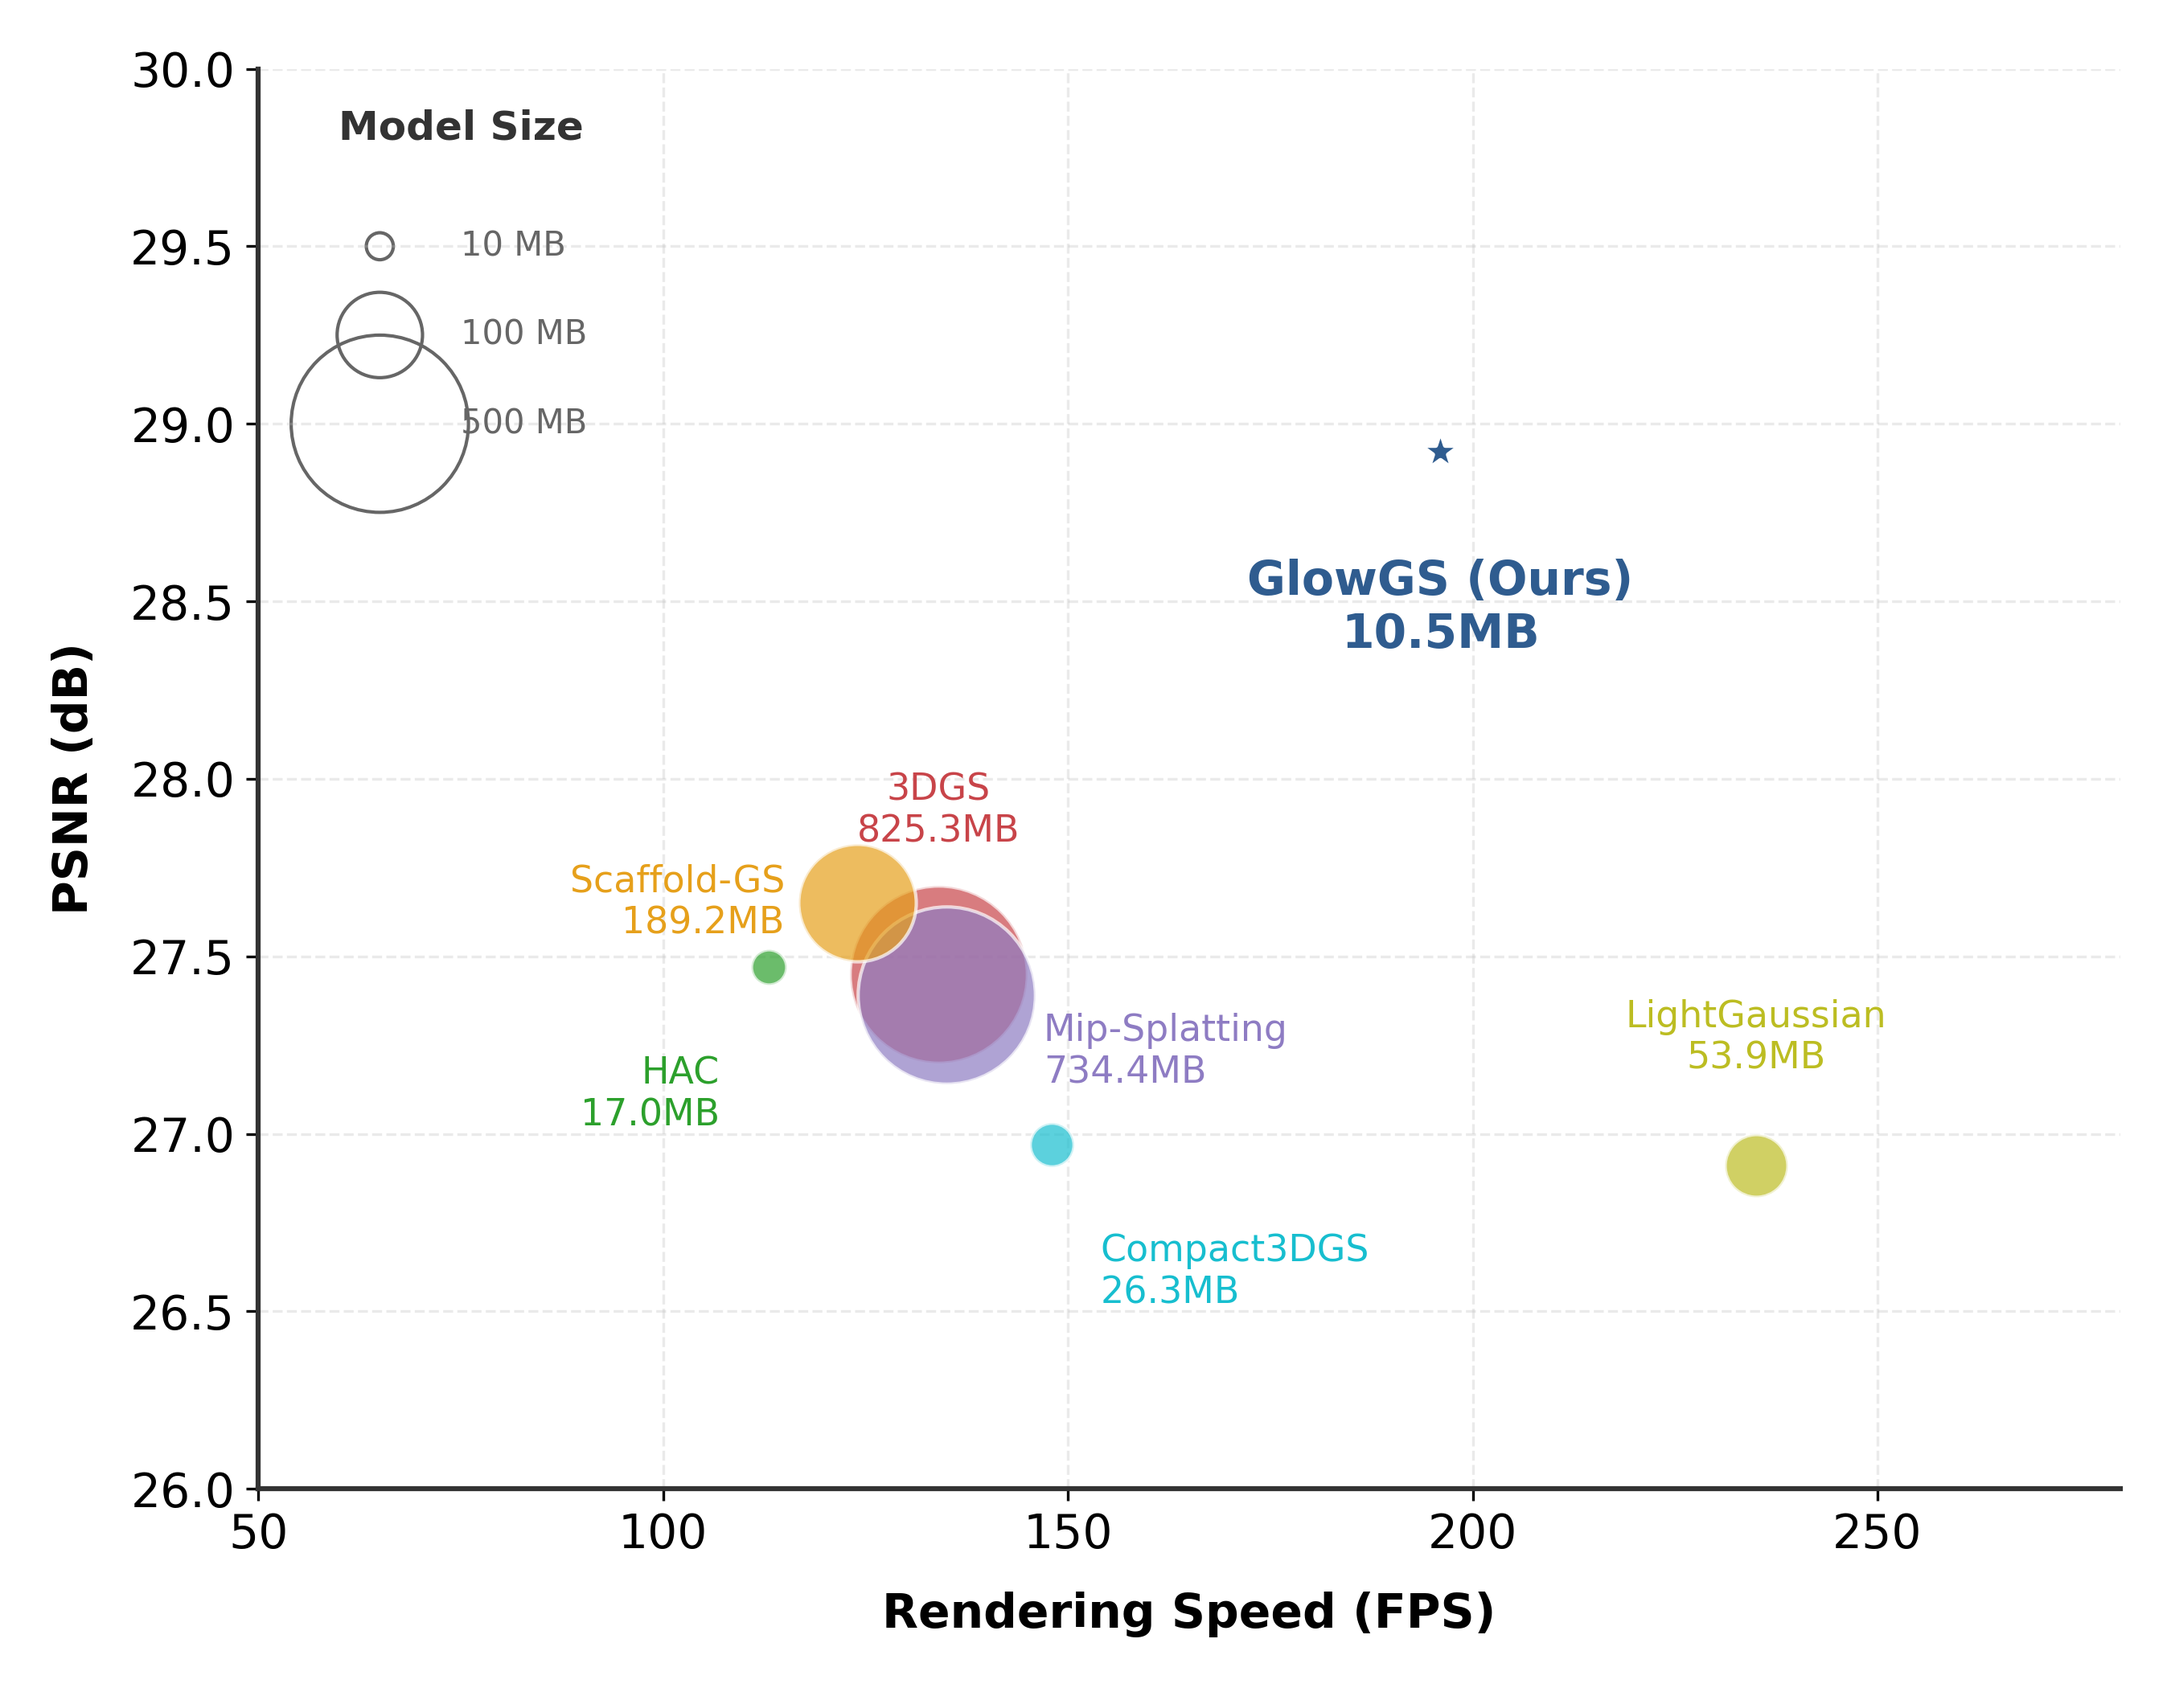
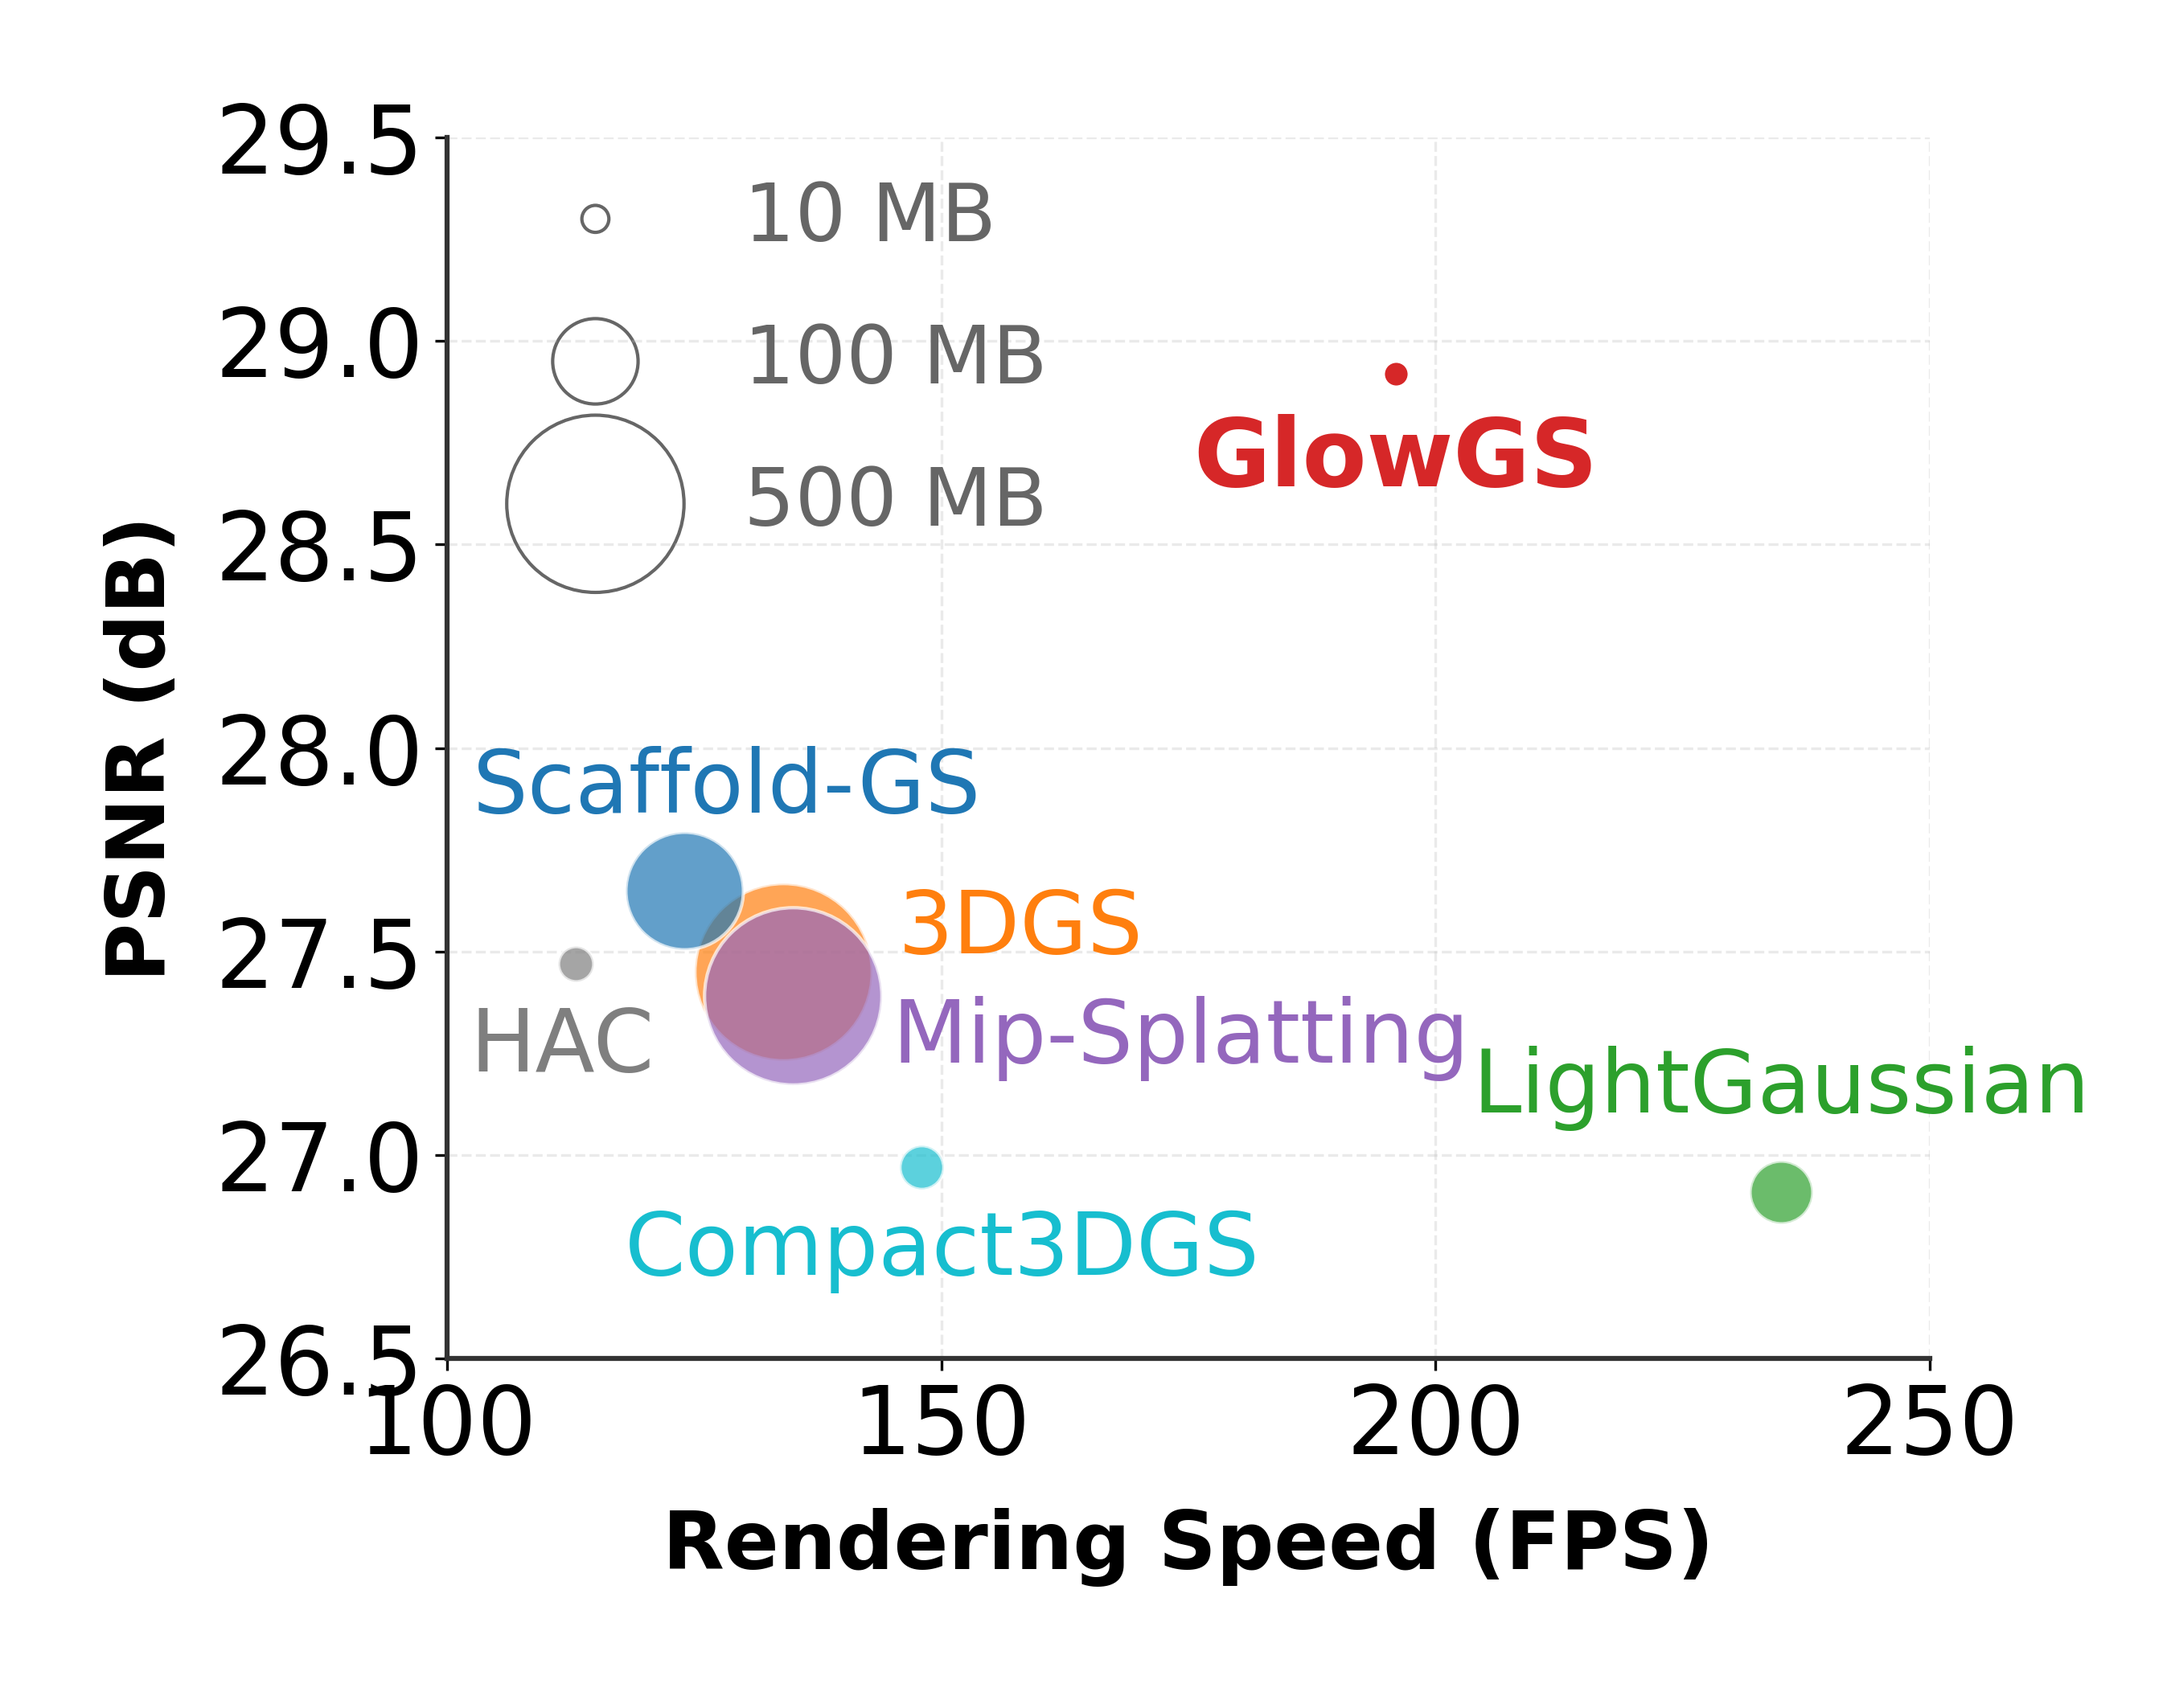
✨ feat: Update the bubble chart configuration, adjusting colors and label positions to enhance readability

diff --git a/paper_experiments/04_trade-off/plot_bubbles.py b/paper_experiments/04_trade-off/plot_bubbles.py
@@ -8,26 +8,26 @@ CONFIG = {
     "figsize": (9, 7),
     "save_path": "paper_experiments/04_trade-off/tradeoff.pdf",
     "dpi": 300,
-    "bubble_scale": 6.5,   # 略微增大全局气泡
-    "bubble_min": 60,      # 提高最小值，防止小气泡太难看
+    "bubble_scale": 6.5,
+    "bubble_min": 60,
     "bubble_max": 2800,
 }
 
 # 顶刊配色 (保持不变)
 COLORS = {
-    "GlowGS":   "#2F5C8F", # Deep Blue
-    "3DGS":     "#C84449", # Red
-    "Scaffold": "#E6A01B", # Golden
-    "Mip":      "#8E7CC3", # Purple
-    "Compact":  "#17BECF", # Cyan
-    "Light":    "#BCBD22", # Olive
-    "HAC":      "#2CA02C", # Green
+    "GlowGS":   "#D62728",
+    "3DGS":     "#FF7F0E",
+    "Scaffold": "#1F77B4",
+    "Mip":      "#9467BD",
+    "Compact":  "#17BECF",
+    "Light":    "#2CA02C",
+    "HAC":      "#7F7F7F", 
 }
 
 plt.rcParams.update({
     "font.family": "sans-serif",
     "font.sans-serif": ["Arial", "Helvetica", "DejaVu Sans"],
-    "font.size": 14,
+    "font.size": 28,
     "axes.linewidth": 1.5,
     "axes.edgecolor": "#333333",
     "pdf.fonttype": 42,
@@ -51,22 +51,21 @@ DATA = [
     [235, 26.91, 53.9,  COLORS["Light"],    "LightGaussian"],
     
     # Ours
-    [196, 28.92, 10.5,  COLORS["GlowGS"],   "GlowGS (Ours)"],
+    [196, 28.92, 10.5,  COLORS["GlowGS"],   "GlowGS"],
 ]
 
 # =====================
 # 3. 标签微调 (距离拉近版)
 # =====================
-# 格式: Name: (x_offset, y_offset, ha, va)
-# 这里的 offset 是数据坐标偏移，我把数值调小了，让字靠近气泡
+
 LABEL_POS = {
-    "3DGS":           (0, 0.35, 'center', 'bottom'), # 之前是 0.45
-    "Scaffold-GS":    (-9, 0.0, 'right', 'center'),  # 之前是 -12
-    "Mip-Splatting":  (12, -0.05, 'left', 'top'),    # 之前是 15
-    "Compact3DGS":    (6, -0.25, 'left', 'top'),     # 之前是 8
-    "HAC":            (-6, -0.25, 'right', 'top'),   # 之前是 -8
-    "LightGaussian":  (0, 0.25, 'center', 'bottom'), # 之前是 0.35
-    "GlowGS (Ours)":  (0, -0.3, 'center', 'top'),    # 之前是 -0.4
+    "3DGS":           (24, 0, 'center', 'bottom'),
+    "Scaffold-GS":    (30, 0.25, 'right', 'center'),
+    "Mip-Splatting":  (10, 0, 'left', 'top'),
+    "Compact3DGS":    (-30, -0.1, 'left', 'top'),
+    "HAC":            (8, -0.1, 'right', 'top'),
+    "LightGaussian":  (0, 0.15, 'center', 'bottom'),
+    "GlowGS":  (0, -0.1, 'center', 'top'),
 }
 
 def size_to_area(size_mb):
@@ -79,19 +78,16 @@ def main():
     DATA.sort(key=lambda x: x[2], reverse=True)
 
     for fps, psnr, size, color, name in DATA:
-        is_ours = "Ours" in name
+        is_ours = "GlowGS" in name
         
         # 样式逻辑
-        marker = '*' if is_ours else 'o'
+        marker = 'o'
         alpha = 1.0 if is_ours else 0.7  # 其他半透明
         edge_color = 'white'
         lw = 1.5 if is_ours else 1.0
         zorder = 100 if is_ours else 50
         
-        # === 关键修改：大幅增加星星的显示面积 ===
         area = size_to_area(size)
-        if is_ours: 
-            area *= 2.5 # 之前是1.5，现在改成2.5，保证星星够大
 
         ax.scatter(fps, psnr, s=area, c=color, marker=marker, 
                    edgecolors=edge_color, linewidth=lw, alpha=alpha, zorder=zorder)
@@ -101,40 +97,40 @@ def main():
         
         # 字体加粗 & 颜色匹配
         weight = 'bold' if is_ours else 'medium'
-        fontsize = 14 if is_ours else 11
+        fontsize = 28 if is_ours else 26
         
         # === 关键修改：文字颜色直接使用气泡颜色 ===
         text_color = color 
         
-        ax.text(fps + dx, psnr + dy, f"{name}\n{size:.1f}MB", 
+        ax.text(fps + dx, psnr + dy, f"{name}", 
                 fontsize=fontsize, fontweight=weight, color=text_color,
                 ha=ha, va=va, zorder=200)
 
     # --- 装饰 ---
-    ax.set_xlabel("Rendering Speed (FPS)", fontweight='bold', fontsize=14, labelpad=10)
-    ax.set_ylabel("PSNR (dB)", fontweight='bold', fontsize=14, labelpad=10)
+    ax.set_xlabel("Rendering Speed (FPS)", fontweight='bold', fontsize=24, labelpad=10)
+    ax.set_ylabel("PSNR (dB)", fontweight='bold', fontsize=24, labelpad=10)
     
-    ax.set_xlim(50, 280)
-    ax.set_ylim(26.0, 30.0)
+    ax.set_xlim(100, 250)
+    ax.set_ylim(26.5, 29.5)
     
     ax.grid(True, which='major', linestyle='--', alpha=0.3, color='#bbbbbb', zorder=0)
     ax.spines['top'].set_visible(False)
     ax.spines['right'].set_visible(False)
 
     # --- 图例 (右移版) ---
-    # legend_x 从 70 改为 75
-    legend_x, legend_y = 75, 29.5 
+    legend_x, legend_y = 130, 29.3 
     
-    ax.text(legend_x, legend_y + 0.3, "Model Size", fontweight='bold', fontsize=12, ha='center', color='#333333')
+    # ax.text(legend_x, legend_y + 0.3, "Model Size", fontweight='bold', fontsize=24, ha='center', color='#333333')
     
     sizes_demo = [10, 100, 500]
+    spacing = 0.35
     for i, s in enumerate(sizes_demo):
-        y_pos = legend_y - i * 0.25
+        y_pos = legend_y - i * spacing
         # 画空心圆
-        ax.scatter(legend_x - 10, y_pos, s=size_to_area(s), 
+        ax.scatter(legend_x - 15, y_pos, s=size_to_area(s), 
                    facecolors='none', edgecolors='#666666', linewidth=1)
-        # 写文字
-        ax.text(legend_x, y_pos, f"{s} MB", va='center', fontsize=10, color='#666666')
+        # 写文字（左对齐，保持等距）
+        ax.text(legend_x, y_pos, f"{s} MB", va='center', ha='left', fontsize=24, color='#666666')
 
     plt.tight_layout()
     plt.savefig(CONFIG["save_path"], bbox_inches='tight')
